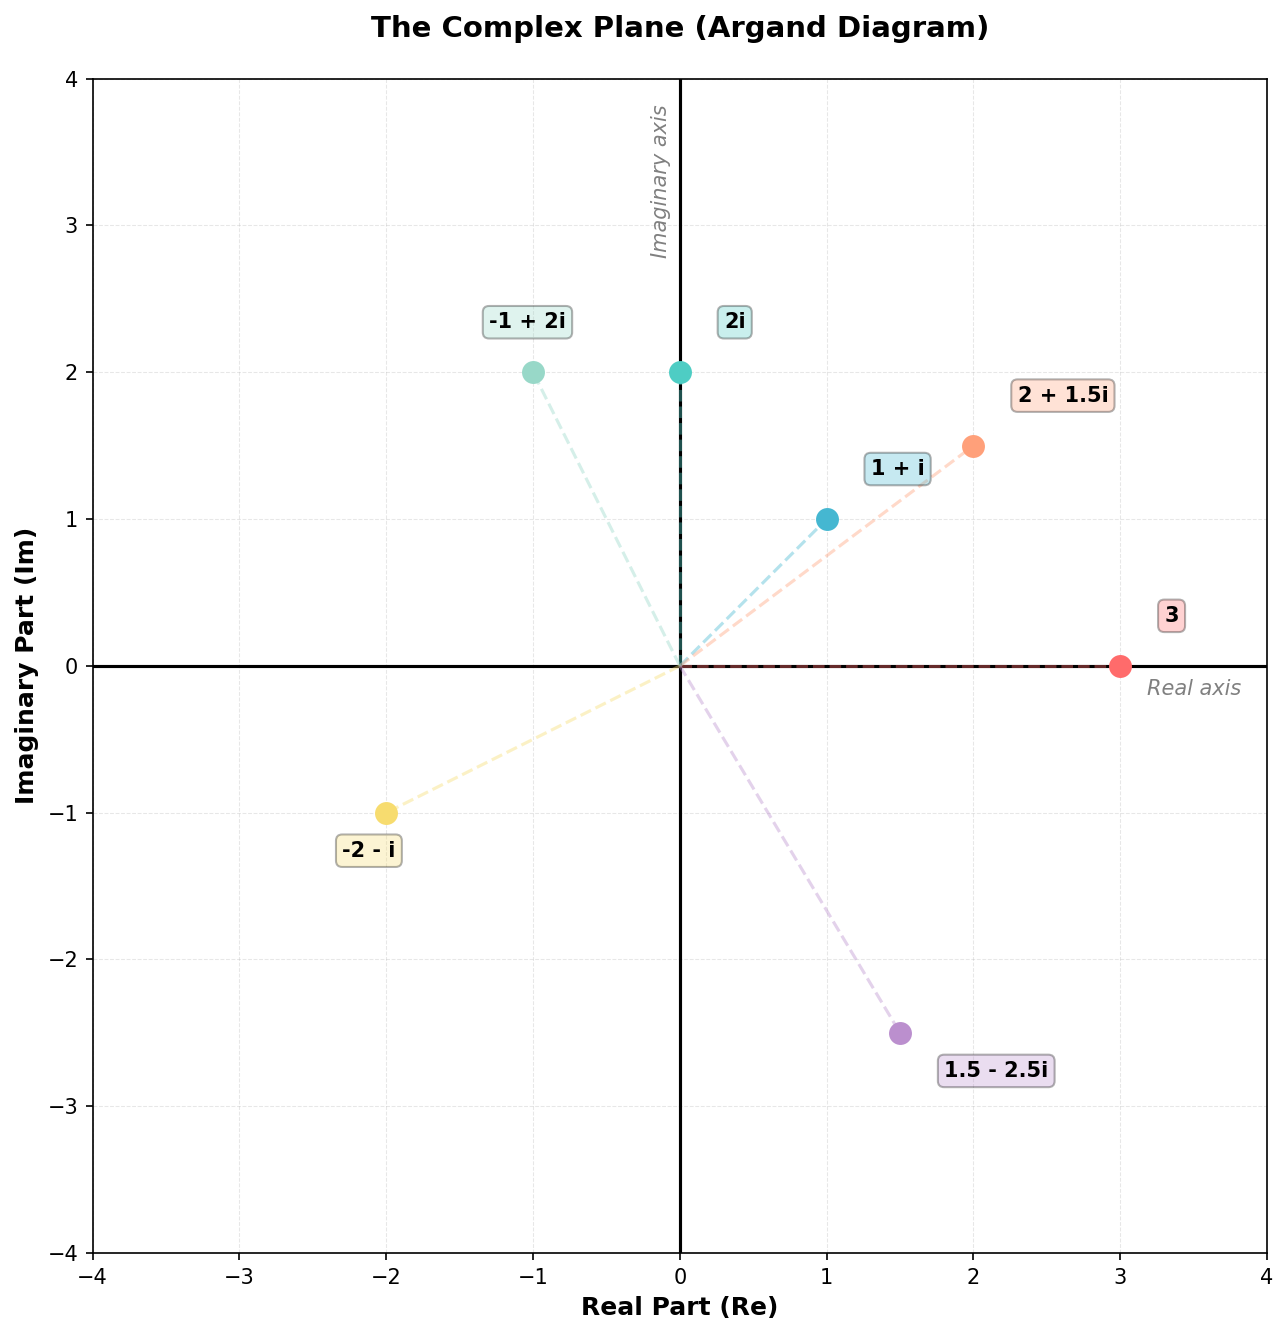
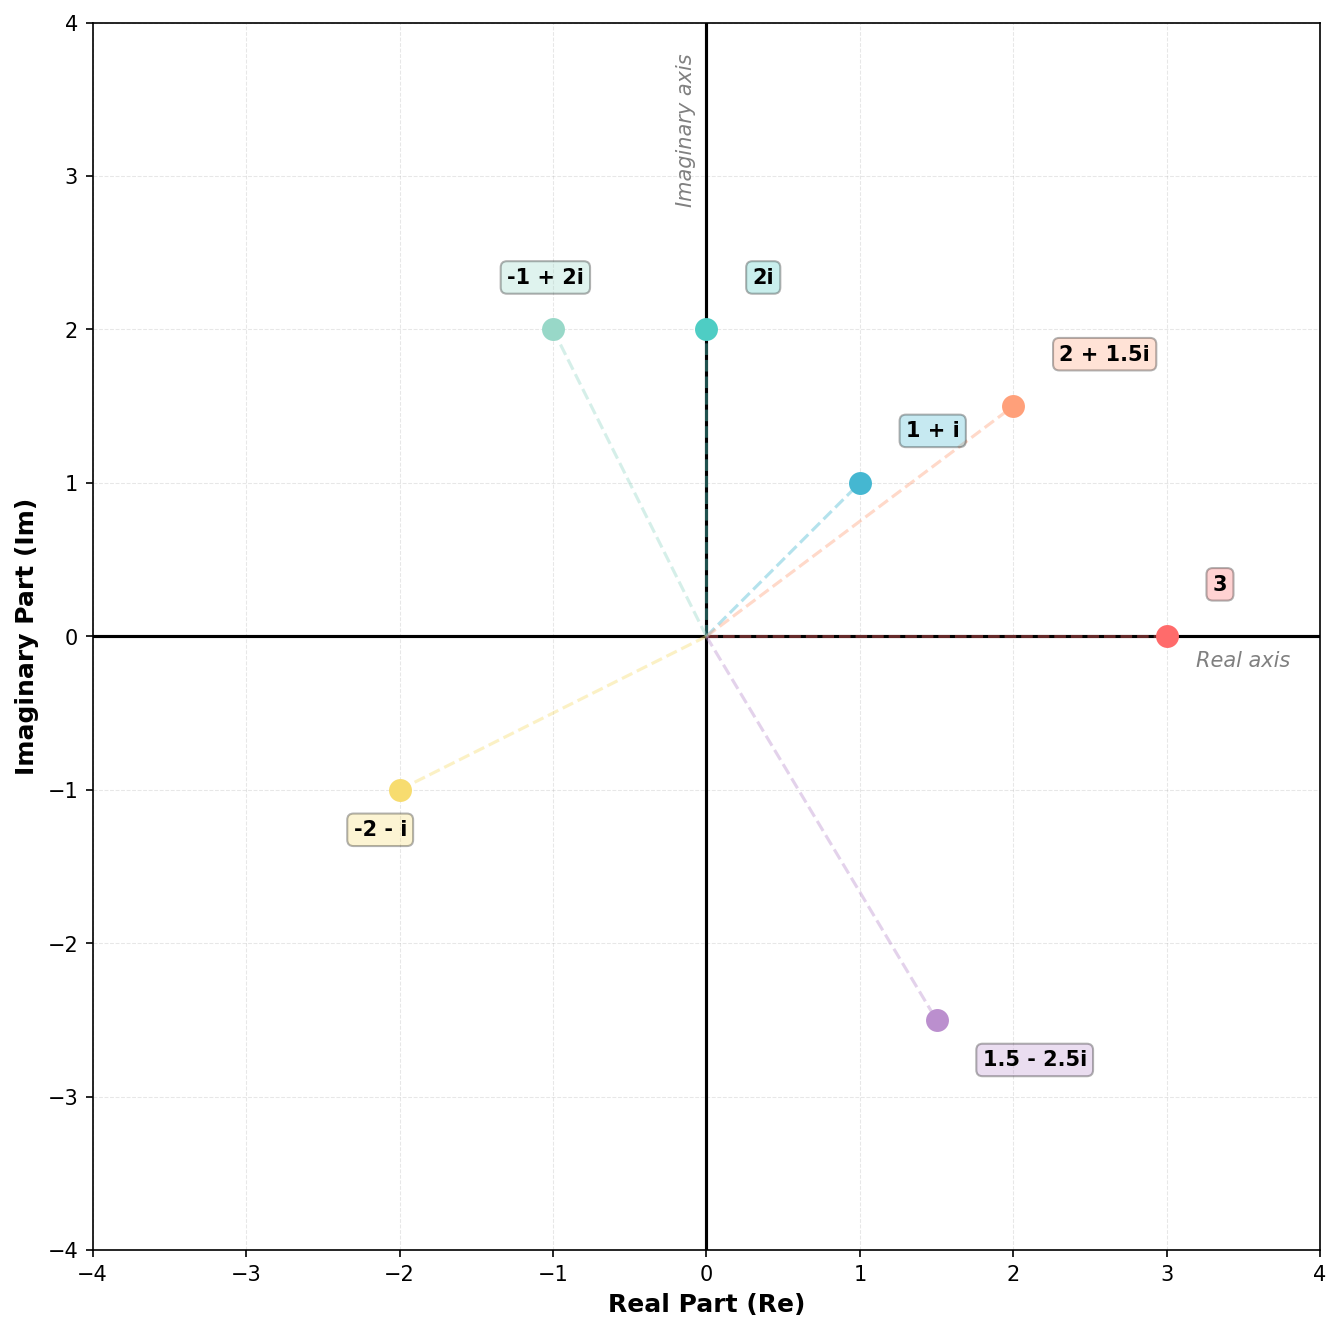
Removed title from diagram and unnecessary import

diff --git a/resources/complex_plane.py b/resources/complex_plane.py
@@ -5,7 +5,6 @@ Outputs to complex-plane.png in the same directory.
 """
 
 import matplotlib.pyplot as plt
-import numpy as np
 
 # Create figure and axis
 fig, ax = plt.subplots(1, 1, figsize=(9, 9), dpi=150)
@@ -19,7 +18,6 @@ ax.axvline(x=0, color='k', linewidth=1.5)
 # Add axis labels
 ax.set_xlabel('Real Part (Re)', fontsize=12, fontweight='bold')
 ax.set_ylabel('Imaginary Part (Im)', fontsize=12, fontweight='bold')
-ax.set_title('The Complex Plane (Argand Diagram)', fontsize=14, fontweight='bold', pad=20)
 
 # Define some example complex numbers
 examples = [